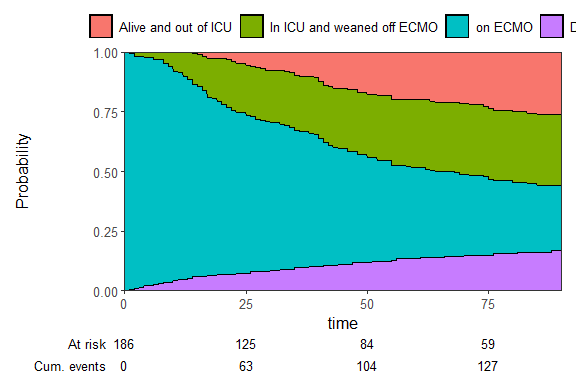
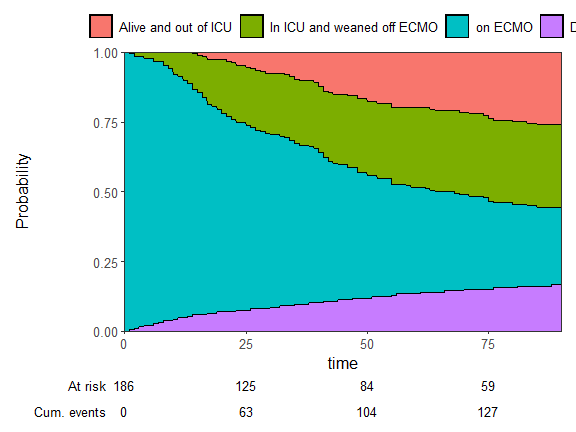
Update README

diff --git a/README.md b/README.md
@@ -12,17 +12,32 @@ probability plots with [`ggplot2`](https://ggplot2.tidyverse.org/)
 easier. It draws heavily from the syntax and the style of
 [`ggsurvfit`](https://www.danieldsjoberg.com/ggsurvfit/).
 
+## What are “stacked probability plots”?
+
+Stacked probability plots are an efficient way to visualize the
+probabilities of being in each state of a multi-state model over time.
+Since all patients have to be in one of the states, the probabilities of
+being in each state at a given time always sum to 1, making for a nice
+and compact visualization.
+
+A good example can be found in this 2020
+[paper](https://www.thelancet.com/journals/lanres/article/PIIS2213-2600(20)30328-3/fulltext)
+about extra-corporeal membrane oxygenation (ECMO) in COVID-19 patients
+(Schmidt et al. 2020)
+
+<img src="images/paste-1.png" style="width:15cm" />
+
 ## Why ggstackedsurv ?
 
 Originally, the plan was to add these functions as a functionality to
 the [`ggsurvfit`](https://www.danieldsjoberg.com/ggsurvfit/) package.
-However, stacked survival probabity plots are uncommon and out of the
-scope of [`ggsurvfit`](https://www.danieldsjoberg.com/ggsurvfit/), so
-making it a separate package seemed the right choice.
+However, stacked probability plots are uncommon and out of the scope of
+[`ggsurvfit`](https://www.danieldsjoberg.com/ggsurvfit/), so making it a
+separate package seemed the right choice.
 
-Plotting stacked survival probabilities is already possible with the
+Plotting stacked probabilities is already possible with the
 [`plot.trans()`](https://search.r-project.org/CRAN/refmans/mstate/html/probtrans.html)
-function from the `mstate` package. However, two **crucical** (imho)
+function from the `mstate` package. However, two **crucial** (imho)
 functionalities were lacking:
 
 - rendering the plot with [`ggplot2`](https://ggplot2.tidyverse.org/),
@@ -32,15 +47,15 @@ functionalities were lacking:
   package, since it is the one mostly used for survival models (even
   mutlistate ones).
 
-## Instalation
+## Installation
 
-You can `ggstackedsurv` from CRAN with:
+You can install `ggstackedsurv` from CRAN with:
 
 ``` r
 install.packages("ggstackedsurv")
 ```
 
-You can install the development version of ggstackedsurv from
+You can install the development version of `ggstackedsurv` from
 [GitHub](https://github.com/) with:
 
 ``` r
@@ -66,3 +81,17 @@ ggstackedsurv(fit, base_state = "on ECMO") +
 ```
 
 <img src="man/figures/README-unnamed-chunk-2-1.png" width="100%" style="display: block; margin: auto;" />
+
+<div id="refs" class="references csl-bib-body hanging-indent">
+
+<div id="ref-schmidt2020" class="csl-entry">
+
+Schmidt, Matthieu, David Hajage, Guillaume Lebreton, et al. 2020.
+“Extracorporeal Membrane Oxygenation for Severe Acute Respiratory
+Distress Syndrome Associated with COVID-19: A Retrospective Cohort
+Study.” *The Lancet Respiratory Medicine* 8 (11): 1121–31.
+<https://doi.org/10.1016/S2213-2600(20)30328-3>.
+
+</div>
+
+</div>
